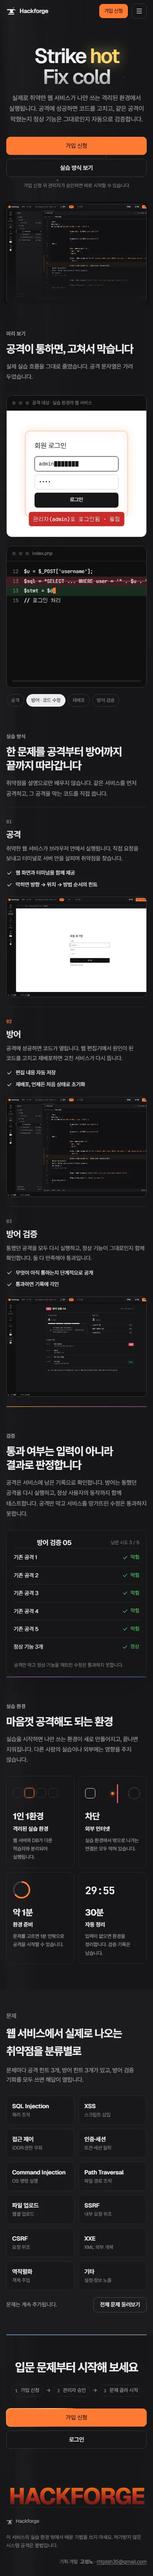
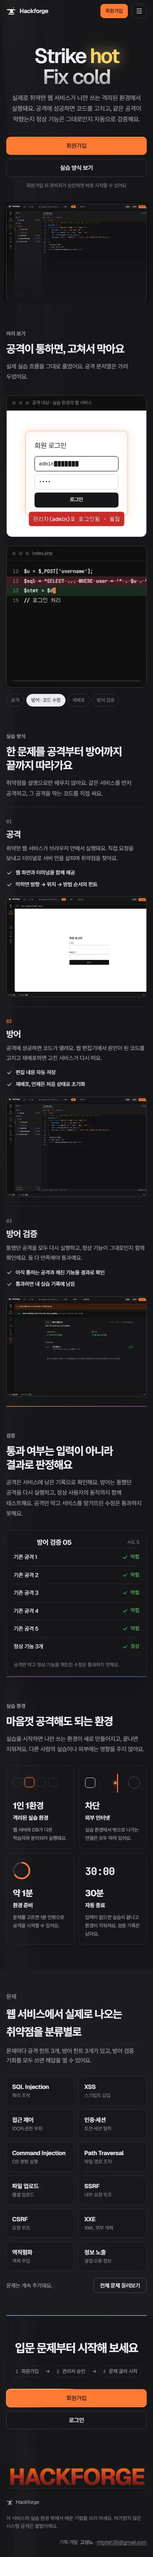
feat: 소개 화면을 앱 결정에 맞춤(해요체·회원가입, 분류, 실제 앱 캡처)
시안 이후 정한 ADR 019·020을 소개 화면에 반영하지 않았고, 시안 캡처 lab-*에는 실제 문제의 공격 문자열과 고친 코드가 보였다.

diff --git a/src/pages/landing-page.tsx b/src/pages/landing-page.tsx
@@ -5,13 +5,16 @@ import { MenuIcon } from 'lucide-react'
 import { useEffect, useRef, type CSSProperties } from 'react'
 import { Link } from 'react-router'
 
-import labCode from '../../design/screens/lab-code-dark.webp'
-import labRecords from '../../design/screens/lab-records-dark.webp'
-import labTarget from '../../design/screens/lab-target-dark.webp'
+import labCode from '../../design/screens/landing-lab-code.webp'
+import labRecords from '../../design/screens/landing-lab-records.webp'
+import labTarget from '../../design/screens/landing-lab-target.webp'
 import { LogoMark } from '@/components/logo'
 import { startLandingEffects } from '@/pages/landing-effects'
 
-/** 제품 화면은 확정 캡처(design/screens)의 다크 화면(시안은 iframe) */
+/**
+ * 제품 화면은 실제 앱을 mock 모드 다크로 찍은 캡처(시안은 iframe). 실제 문제의 공격 문자열이나 고친 코드가
+ * 보이지 않게 mock의 가짜 코드와 빈 입력 칸으로 찍는다
+ */
 const SCREENS = {
   code: { src: labCode, alt: '방어 단계의 코드 편집기 화면' },
   target: { src: labTarget, alt: '공격 대상 화면' },
@@ -58,7 +61,7 @@ const STEPS = [
   {
     n: '01',
     title: '공격',
-    text: '취약한 웹 서비스가 브라우저 안에서 실행됩니다. 직접 요청을 보내고 터미널로 서버 안을 살피며 취약점을 찾습니다.',
+    text: '취약한 웹 서비스가 브라우저 안에서 실행돼요. 직접 요청을 보내고 터미널로 서버 안을 살피며 취약점을 찾아요.',
     points: ['웹 화면과 터미널을 함께 제공', '막히면 방향 → 위치 → 방법 순서의 힌트'],
     screen: 'target',
     caption: '공격 대상 화면',
@@ -66,16 +69,16 @@ const STEPS = [
   {
     n: '02',
     title: '방어',
-    text: '공격에 성공하면 코드가 열립니다. 웹 편집기에서 원인이 된 코드를 고치고 재배포하면 고친 서비스가 다시 뜹니다.',
+    text: '공격에 성공하면 코드가 열려요. 웹 편집기에서 원인이 된 코드를 고치고 재배포하면 고친 서비스가 다시 떠요.',
     points: ['편집 내용 자동 저장', '재배포, 언제든 처음 상태로 초기화'],
     screen: 'code',
-    caption: '웹 IDE',
+    caption: '코드 편집기',
   },
   {
     n: '03',
     title: '방어 검증',
-    text: '통했던 공격을 모두 다시 실행하고, 정상 기능이 그대로인지 함께 확인합니다. 둘 다 만족해야 통과입니다.',
-    points: ['무엇이 아직 통하는지 단계적으로 공개', '통과하면 기록에 각인'],
+    text: '통했던 공격을 모두 다시 실행하고, 정상 기능이 그대로인지 함께 확인해요. 둘 다 만족해야 통과예요.',
+    points: ['아직 통하는 공격과 깨진 기능을 결과로 확인', '통과하면 내 실습 기록에 남음'],
     screen: 'records',
     caption: '방어 검증 결과',
   },
@@ -103,7 +106,7 @@ const CATEGORIES: [string, string][] = [
   ['CSRF', '요청 위조'],
   ['XXE', 'XML 외부 개체'],
   ['역직렬화', '객체 주입'],
-  ['기타', '설정·정보 노출'],
+  ['정보 노출', '설정·오류 정보'],
 ]
 
 const delay = (s: number, i?: number) =>
@@ -166,7 +169,7 @@ export function LandingPage() {
             로그인
           </Link>
           <Link to="/signup" className="btn p">
-            가입 신청
+            회원가입
           </Link>
           <details className="menu">
             <summary aria-label="메뉴">
@@ -196,18 +199,18 @@ export function LandingPage() {
             </span>
           </h1>
           <p className="lead">
-            실제로 취약한 웹 서비스가 나만 쓰는 격리된 환경에서 실행됩니다. 공격에 성공하면 코드를
-            고치고, 같은 공격이 막혔는지 정상 기능은 그대로인지 자동으로 검증합니다.
+            실제로 취약한 웹 서비스가 나만 쓰는 격리된 환경에서 실행돼요. 공격에 성공하면 코드를
+            고치고, 같은 공격이 막혔는지 정상 기능은 그대로인지 자동으로 검증해요.
           </p>
           <div className="cta">
             <Link to="/signup" className="btn p lg">
-              가입 신청
+              회원가입
             </Link>
             <a className="btn lg" href="#how">
               실습 방식 보기
             </a>
           </div>
-          <small>가입 신청 뒤 관리자가 승인하면 바로 시작할 수 있습니다</small>
+          <small>회원가입 뒤 관리자가 승인하면 바로 시작할 수 있어요</small>
           <div className="shot">
             <Screen name="code" eager />
           </div>
@@ -218,8 +221,8 @@ export function LandingPage() {
       <section className="w sec" id="demo" aria-labelledby="demo-title">
         <div className="rv">
           <div className="k">미리 보기</div>
-          <h2 id="demo-title">공격이 통하면, 고쳐서 막습니다</h2>
-          <p className="d">실제 실습 흐름을 그대로 줄였습니다. 공격 문자열은 가려 두었습니다.</p>
+          <h2 id="demo-title">공격이 통하면, 고쳐서 막아요</h2>
+          <p className="d">실제 실습 흐름을 그대로 줄였어요. 공격 문자열은 가려 두었어요.</p>
         </div>
         <div className="re">
           <div className="win">
@@ -292,11 +295,11 @@ export function LandingPage() {
           <h2 id="how-title">
             한 문제를 공격부터 방어까지
             <br />
-            끝까지 따라갑니다
+            끝까지 따라가요
           </h2>
           <p className="d">
-            취약점을 설명으로만 배우지 않습니다. 같은 서비스를 먼저 공격하고, 그 공격을 막는 코드를
-            직접 씁니다.
+            취약점을 설명으로만 배우지 않아요. 같은 서비스를 먼저 공격하고, 그 공격을 막는 코드를
+            직접 써요.
           </p>
         </div>
         {/* 넓은 화면은 이 구간에서 화면을 고정하고, 스크롤에 따라 단계와 오른쪽 화면이 바뀐다 */}
@@ -343,12 +346,12 @@ export function LandingPage() {
             <h2 id="verify-title">
               통과 여부는 입력이 아니라
               <br />
-              결과로 판정합니다
+              결과로 판정해요
             </h2>
             <p className="d">
-              공격은 서비스에 남은 기록으로 확인합니다. 방어는 통했던 공격을 다시 실행하고, 정상
-              사용자의 동작까지 함께 테스트합니다. 공격만 막고 서비스를 망가뜨린 수정은 통과하지
-              못합니다.
+              공격은 서비스에 남은 기록으로 확인해요. 방어는 통했던 공격을 다시 실행하고, 정상
+              사용자의 동작까지 함께 테스트해요. 공격만 막고 서비스를 망가뜨린 수정은 통과하지
+              못해요.
             </p>
           </div>
           <div className="rv" style={delay(0.12)}>
@@ -356,7 +359,7 @@ export function LandingPage() {
               <div className="rh">
                 <span className="big badge f">FAIL</span>
                 <h4>방어 검증 04</h4>
-                <small>남은 시도 4 / 5</small>
+                <small>시도 4</small>
               </div>
               {VERDICT_ROWS.map(([name, ok]) => (
                 <div key={name} className={ok ? 'row' : 'row no-row'}>
@@ -367,7 +370,7 @@ export function LandingPage() {
                   </span>
                 </div>
               ))}
-              <p className="cap">공격만 막고 정상 기능을 깨뜨린 수정은 통과하지 못합니다.</p>
+              <p className="cap">공격만 막고 정상 기능을 깨뜨린 수정은 통과하지 못해요.</p>
             </div>
           </div>
         </div>
@@ -379,8 +382,8 @@ export function LandingPage() {
           <div className="k">실습 환경</div>
           <h2 id="env-title">마음껏 공격해도 되는 환경</h2>
           <p className="d">
-            실습을 시작하면 나만 쓰는 환경이 새로 만들어지고, 끝나면 지워집니다. 다른 사람의
-            실습이나 외부에는 영향을 주지 않습니다.
+            실습을 시작하면 나만 쓰는 환경이 새로 만들어지고, 끝나면 지워져요. 다른 사람의 실습이나
+            외부에는 영향을 주지 않아요.
           </p>
         </div>
         <div className="facts" id="facts">
@@ -395,7 +398,7 @@ export function LandingPage() {
             </div>
             <b>1인 1환경</b>
             <span>격리된 실습 환경</span>
-            <p>웹 서버와 DB가 다른 학습자와 분리되어 실행됩니다.</p>
+            <p>웹 서버와 DB가 다른 학습자와 분리되어 실행돼요.</p>
           </div>
           <div className="fact rv" style={delay(0.08)}>
             <div className="viz" aria-hidden>
@@ -406,7 +409,7 @@ export function LandingPage() {
             </div>
             <b>차단</b>
             <span>외부 인터넷</span>
-            <p>실습 환경에서 밖으로 나가는 연결은 모두 막혀 있습니다.</p>
+            <p>실습 환경에서 밖으로 나가는 연결은 모두 막혀 있어요.</p>
           </div>
           <div className="fact rv" style={delay(0.16)}>
             <div className="viz" aria-hidden>
@@ -423,7 +426,7 @@ export function LandingPage() {
               분
             </b>
             <span>환경 준비</span>
-            <p>문제를 고르면 1분 안팎으로 공격을 시작할 수 있습니다.</p>
+            <p>문제를 고르면 1분 안팎으로 공격을 시작할 수 있어요.</p>
           </div>
           <div className="fact rv" style={delay(0.24)}>
             <div className="viz" aria-hidden>
@@ -437,8 +440,8 @@ export function LandingPage() {
               </em>
               분
             </b>
-            <span>자동 정리</span>
-            <p>입력이 없으면 환경을 정리합니다. 검증 기록은 남습니다.</p>
+            <span>자동 종료</span>
+            <p>입력이 없으면 실습이 끝나고 환경이 지워져요. 검증 기록은 남아요.</p>
           </div>
         </div>
       </section>
@@ -451,11 +454,11 @@ export function LandingPage() {
               웹 서비스에서 실제로 나오는 취약점을 분류별로
             </h2>
             <p className="d">
-              문제마다 공격 힌트 3개, 방어 힌트 3개가 있고, 방어 검증 기회를 모두 쓰면 해답이
-              열립니다.
+              문제마다 공격 힌트 3개, 방어 힌트 3개가 있고, 방어 검증 기회를 모두 쓰면 해답을 열 수
+              있어요.
             </p>
           </div>
-          <ul className="cats" id="cats">
+          <ul className="cats" id="cats" aria-label="취약점 분류">
             {CATEGORIES.map(([name, note], i) => (
               <li
                 key={name}
@@ -468,7 +471,7 @@ export function LandingPage() {
             ))}
           </ul>
           <div className="more">
-            <span>문제는 계속 추가됩니다.</span>
+            <span>문제는 계속 추가돼요.</span>
             <Link to="/problems" className="btn">
               전체 문제 둘러보기
             </Link>
@@ -481,7 +484,7 @@ export function LandingPage() {
         <h2 id="end-title">입문 문제부터 시작해 보세요</h2>
         <div className="flow">
           <span>
-            <b>1</b>가입 신청
+            <b>1</b>회원가입
           </span>
           →
           <span>
@@ -494,7 +497,7 @@ export function LandingPage() {
         </div>
         <div className="btns">
           <Link to="/signup" className="btn p lg">
-            가입 신청
+            회원가입
           </Link>
           <Link to="/login" className="btn lg">
             로그인
@@ -511,7 +514,7 @@ export function LandingPage() {
         </span>
         <span>
           이 서비스의 실습 환경 밖에서 배운 기법을 쓰지 마세요. 허가받지 않은 시스템 공격은
-          불법입니다.
+          불법이에요.
         </span>
         <span className="credit">
           기획·개발<b>고성노</b> · <a href="mailto:rhtjdsh35@gmail.com">rhtjdsh35@gmail.com</a>

diff --git a/src/pages/landing-page.test.tsx b/src/pages/landing-page.test.tsx
@@ -1,28 +1,39 @@
 import { screen, within } from '@testing-library/react'
 import { describe, expect, it } from 'vitest'
 
+import { CATEGORIES } from '@/mocks/challenges'
 import { renderAt, setupMockServer } from '@/test/app'
 
 setupMockServer()
 
 describe('소개 화면', () => {
-  it('구간 순서대로 제목, 가입 신청과 로그인으로 가는 길', async () => {
+  it('구간 순서대로 제목, 회원가입과 로그인으로 가는 길', async () => {
     renderAt('/', 'logged-out')
     expect(await screen.findByRole('heading', { level: 1, name: /Strike hot/ })).toBeInTheDocument()
     expect(screen.getAllByRole('heading', { level: 2 }).map((h) => h.textContent)).toEqual([
-      '공격이 통하면, 고쳐서 막습니다',
-      '한 문제를 공격부터 방어까지끝까지 따라갑니다',
-      '통과 여부는 입력이 아니라결과로 판정합니다',
+      '공격이 통하면, 고쳐서 막아요',
+      '한 문제를 공격부터 방어까지끝까지 따라가요',
+      '통과 여부는 입력이 아니라결과로 판정해요',
       '마음껏 공격해도 되는 환경',
       '웹 서비스에서 실제로 나오는 취약점을 분류별로',
       '입문 문제부터 시작해 보세요',
     ])
-    for (const link of screen.getAllByRole('link', { name: '가입 신청' }))
+    for (const link of screen.getAllByRole('link', { name: '회원가입' }))
       expect(link).toHaveAttribute('href', '/signup')
     expect(screen.getByRole('link', { name: '실습 방식 보기' })).toHaveAttribute('href', '#how')
     expect(screen.getByRole('link', { name: '전체 문제 둘러보기' })).toHaveAttribute(
       'href',
       '/problems',
+    )
+  })
+
+  it('문제 분류 타일은 실제 분류 목록과 같은 이름, 같은 순서(백엔드 V8, ADR 020)', async () => {
+    renderAt('/', 'logged-out')
+    const tiles = within(await screen.findByRole('list', { name: '취약점 분류' })).getAllByRole(
+      'listitem',
+    )
+    expect(tiles.map((tile) => tile.querySelector('b')?.textContent)).toEqual(
+      CATEGORIES.map(([, name]) => name),
     )
   })
 

diff --git a/src/routes.test.tsx b/src/routes.test.tsx
@@ -10,12 +10,12 @@ const server = setupMockServer()
 const nav = () => screen.findByRole('navigation', { name: '주 메뉴' })
 
 describe('로그인 안 됨', () => {
-  it('첫 화면은 소개 화면: 자기 상단 줄에 로그인·가입 신청, 주 메뉴는 없음', async () => {
+  it('첫 화면은 소개 화면: 자기 상단 줄에 로그인·회원가입, 주 메뉴는 없음', async () => {
     renderAt('/', 'logged-out')
     // 내 계정을 묻는 동안은 앱 상단 줄이라, 소개 화면이 뜬 뒤 상단 줄을 본다
     expect(await screen.findByRole('heading', { level: 1, name: /Strike hot/ })).toBeInTheDocument()
     const topBar = within(screen.getByRole('banner'))
-    expect(topBar.getByRole('link', { name: '가입 신청' })).toHaveAttribute('href', '/signup')
+    expect(topBar.getByRole('link', { name: '회원가입' })).toHaveAttribute('href', '/signup')
     // 휴대폰 폭의 메뉴 안에도 로그인이 있다
     expect(topBar.getAllByRole('link', { name: '로그인' })[0]).toHaveAttribute('href', '/login')
     expect(screen.queryByRole('navigation', { name: '주 메뉴' })).not.toBeInTheDocument()
@@ -95,7 +95,7 @@ describe('로그인함', () => {
     await userEvent.click(await screen.findByRole('menuitem', { name: '로그아웃' }))
     expect(await screen.findByRole('heading', { level: 1, name: /Strike hot/ })).toBeInTheDocument()
     expect(
-      within(screen.getByRole('banner')).getByRole('link', { name: '가입 신청' }),
+      within(screen.getByRole('banner')).getByRole('link', { name: '회원가입' }),
     ).toBeInTheDocument()
     expect(router.state.location.pathname).toBe('/')
   })

diff --git a/src/pages/landing-effects.ts b/src/pages/landing-effects.ts
@@ -399,12 +399,12 @@ export function startLandingEffects(root: HTMLElement): () => void {
   function card(pass: boolean, done?: () => void) {
     if (!vc) return
     vc.innerHTML =
-      `<div class="rh"><span class="big badge ${pass ? '' : 'f'}">${pass ? 'PASS' : 'FAIL'}</span><h4>방어 검증 ${pass ? '05' : '04'}</h4><small>${pass ? '남은 시도 3 / 5' : '남은 시도 4 / 5'}</small></div>` +
+      `<div class="rh"><span class="big badge ${pass ? '' : 'f'}">${pass ? 'PASS' : 'FAIL'}</span><h4>방어 검증 ${pass ? '05' : '04'}</h4><small>${pass ? '시도 5' : '시도 4'}</small></div>` +
       ROWS.map(([name, ok]) => {
         const o = pass || ok
         return `<div class="row ${o ? '' : 'no-row'}"><span>${name}</span><span class="st ${o ? 'ok' : 'no'}">${o ? CHECK : CROSS}${name.startsWith('정상') ? '정상' : o ? '막힘' : '아직 통함'}</span></div>`
       }).join('') +
-      '<p class="cap">공격만 막고 정상 기능을 깨뜨린 수정은 통과하지 못합니다.</p>' +
+      '<p class="cap">공격만 막고 정상 기능을 깨뜨린 수정은 통과하지 못해요.</p>' +
       (pass ? SEAL_SVG : '')
     const rows = [...vc.querySelectorAll('.row')]
     rows.forEach((r, i) => later(() => r.classList.add('in'), R ? 0 : 200 + i * 230))
@@ -598,7 +598,7 @@ export function startLandingEffects(root: HTMLElement): () => void {
         press()
         await wait(140)
         attackBlocked()
-        verdict('아이디 또는 비밀번호가 틀립니다 · 막힘', 'good')
+        verdict('로그인 실패 · 막힘', 'good')
         await wait(3200)
       }
     }

diff --git a/src/components/app-layout.tsx b/src/components/app-layout.tsx
@@ -19,7 +19,7 @@ const MENU = [
 export function AppLayout() {
   const me = useMe()
   const { pathname } = useLocation()
-  // 로그인 전 소개 화면은 자기 상단 줄(구간 메뉴, 가입 신청)을 쓴다(DESIGN.md "소개 화면")
+  // 로그인 전 소개 화면은 자기 상단 줄(구간 메뉴, 회원가입)을 쓴다(DESIGN.md "소개 화면")
   const landing = me.data === null && pathname === '/'
 
   return (

diff --git a/src/pages/landing.css b/src/pages/landing.css
@@ -1735,7 +1735,7 @@
 }
 
 /* ===== 앱에 맞춘 덧붙임 ===== */
-/* 상단 줄: 로고, 구간 메뉴, 로그인, 가입 신청. 640px 이하는 메뉴 버튼 */
+/* 상단 줄: 로고, 구간 메뉴, 로그인, 회원가입. 640px 이하는 메뉴 버튼 */
 .lp .top {
   height: 60px;
   display: flex;

diff --git a/DESIGN.md b/DESIGN.md
@@ -214,7 +214,9 @@ components:
 - 구간 순서: 첫 화면, 미리 보기, 실습 방식, 검증, 실습 환경, 문제, 마무리, 쇳물 글자, 맨 아래 줄
 - 다크만 있다. 앱 테마와 상관없이 확정 시안(`.impeccable/mocks/decision/colors/final-dark-landing-01.html`)대로 다크로 보인다(2026-11-26 사람이 결정). 뿌리에 `dark` class를 붙여 앱 다크 토큰을 쓰고, 바탕은 면 색(`card`)이다
 - 글꼴: 영문은 Geist, 한글은 Pretendard(`font-display`). 2026-11-26 후보 6개(Pretendard, Inter + Noto Sans KR, Geist + Pretendard, SUIT, Wanted Sans, IBM Plex Sans KR)를 같은 구간에서 비교해 사람이 정했다
-- 캡처: 첫 화면 `design/screens/landing-dark`(시안), 구간별 화면 `landing-desktop-dark`(1440px, 효과가 끝난 뒤 7장), 페이지 전체 `landing-mobile-dark`(390px). 제품 화면은 확정 캡처 `lab-*-dark`를 쓴다
+- 캡처: 첫 화면 `design/screens/landing-dark`(시안), 구간별 화면 `landing-desktop-dark`(1440px, 효과가 끝난 뒤 7장), 페이지 전체 `landing-mobile-dark`(390px)
+- 제품 화면은 실제 앱을 mock 모드 다크로 찍은 `landing-lab-*`(편집기, 공격 대상, 기록)를 쓴다. 공개 화면이라 실제 문제의 공격 문자열, 고친 코드, 해답이 보이면 안 된다(확정 캡처 `lab-*`에는 보여서 쓰지 않는다)
+- 소개 화면도 앱 결정을 따른다. 문구는 해요체와 화면 용어(ADR 019), 분류 타일은 실제 분류 목록(ADR 020, 테스트가 mock 분류 목록과 대조), 숫자와 기능 설명은 실제 동작과 같게 쓴다. 관련 결정이 바뀌면 소개 화면도 같이 고친다(2026-11-26 사람이 결정)
 - 코드: 시안의 CSS·스크립트를 `src/pages/landing.css`, `landing-effects.ts`로 옮겼다. 시안 class 중 Tailwind 유틸리티와 이름이 같은 것(outline, ring)은 Tailwind 스타일이 덧붙어 이름을 바꿨다. 새 class를 더할 때도 Tailwind 유틸리티 이름을 피한다
 - 상단 줄은 앱 상단 줄 대신 소개 화면 것(로고, 구간 메뉴, 로그인, 가입 신청. 640px 이하는 메뉴 버튼). 맨 아래 줄에 개발자 이름과 연락처, HTML `meta author`(hackforge-docs ADR 016)
 - 본문 최대 폭 1160px(안쪽 1096px). 구간 사이 110px, 태블릿 84px, 휴대폰 64px. 구간 구분선은 앞뒤 구간과 같은 간격 가운데에 둔다
